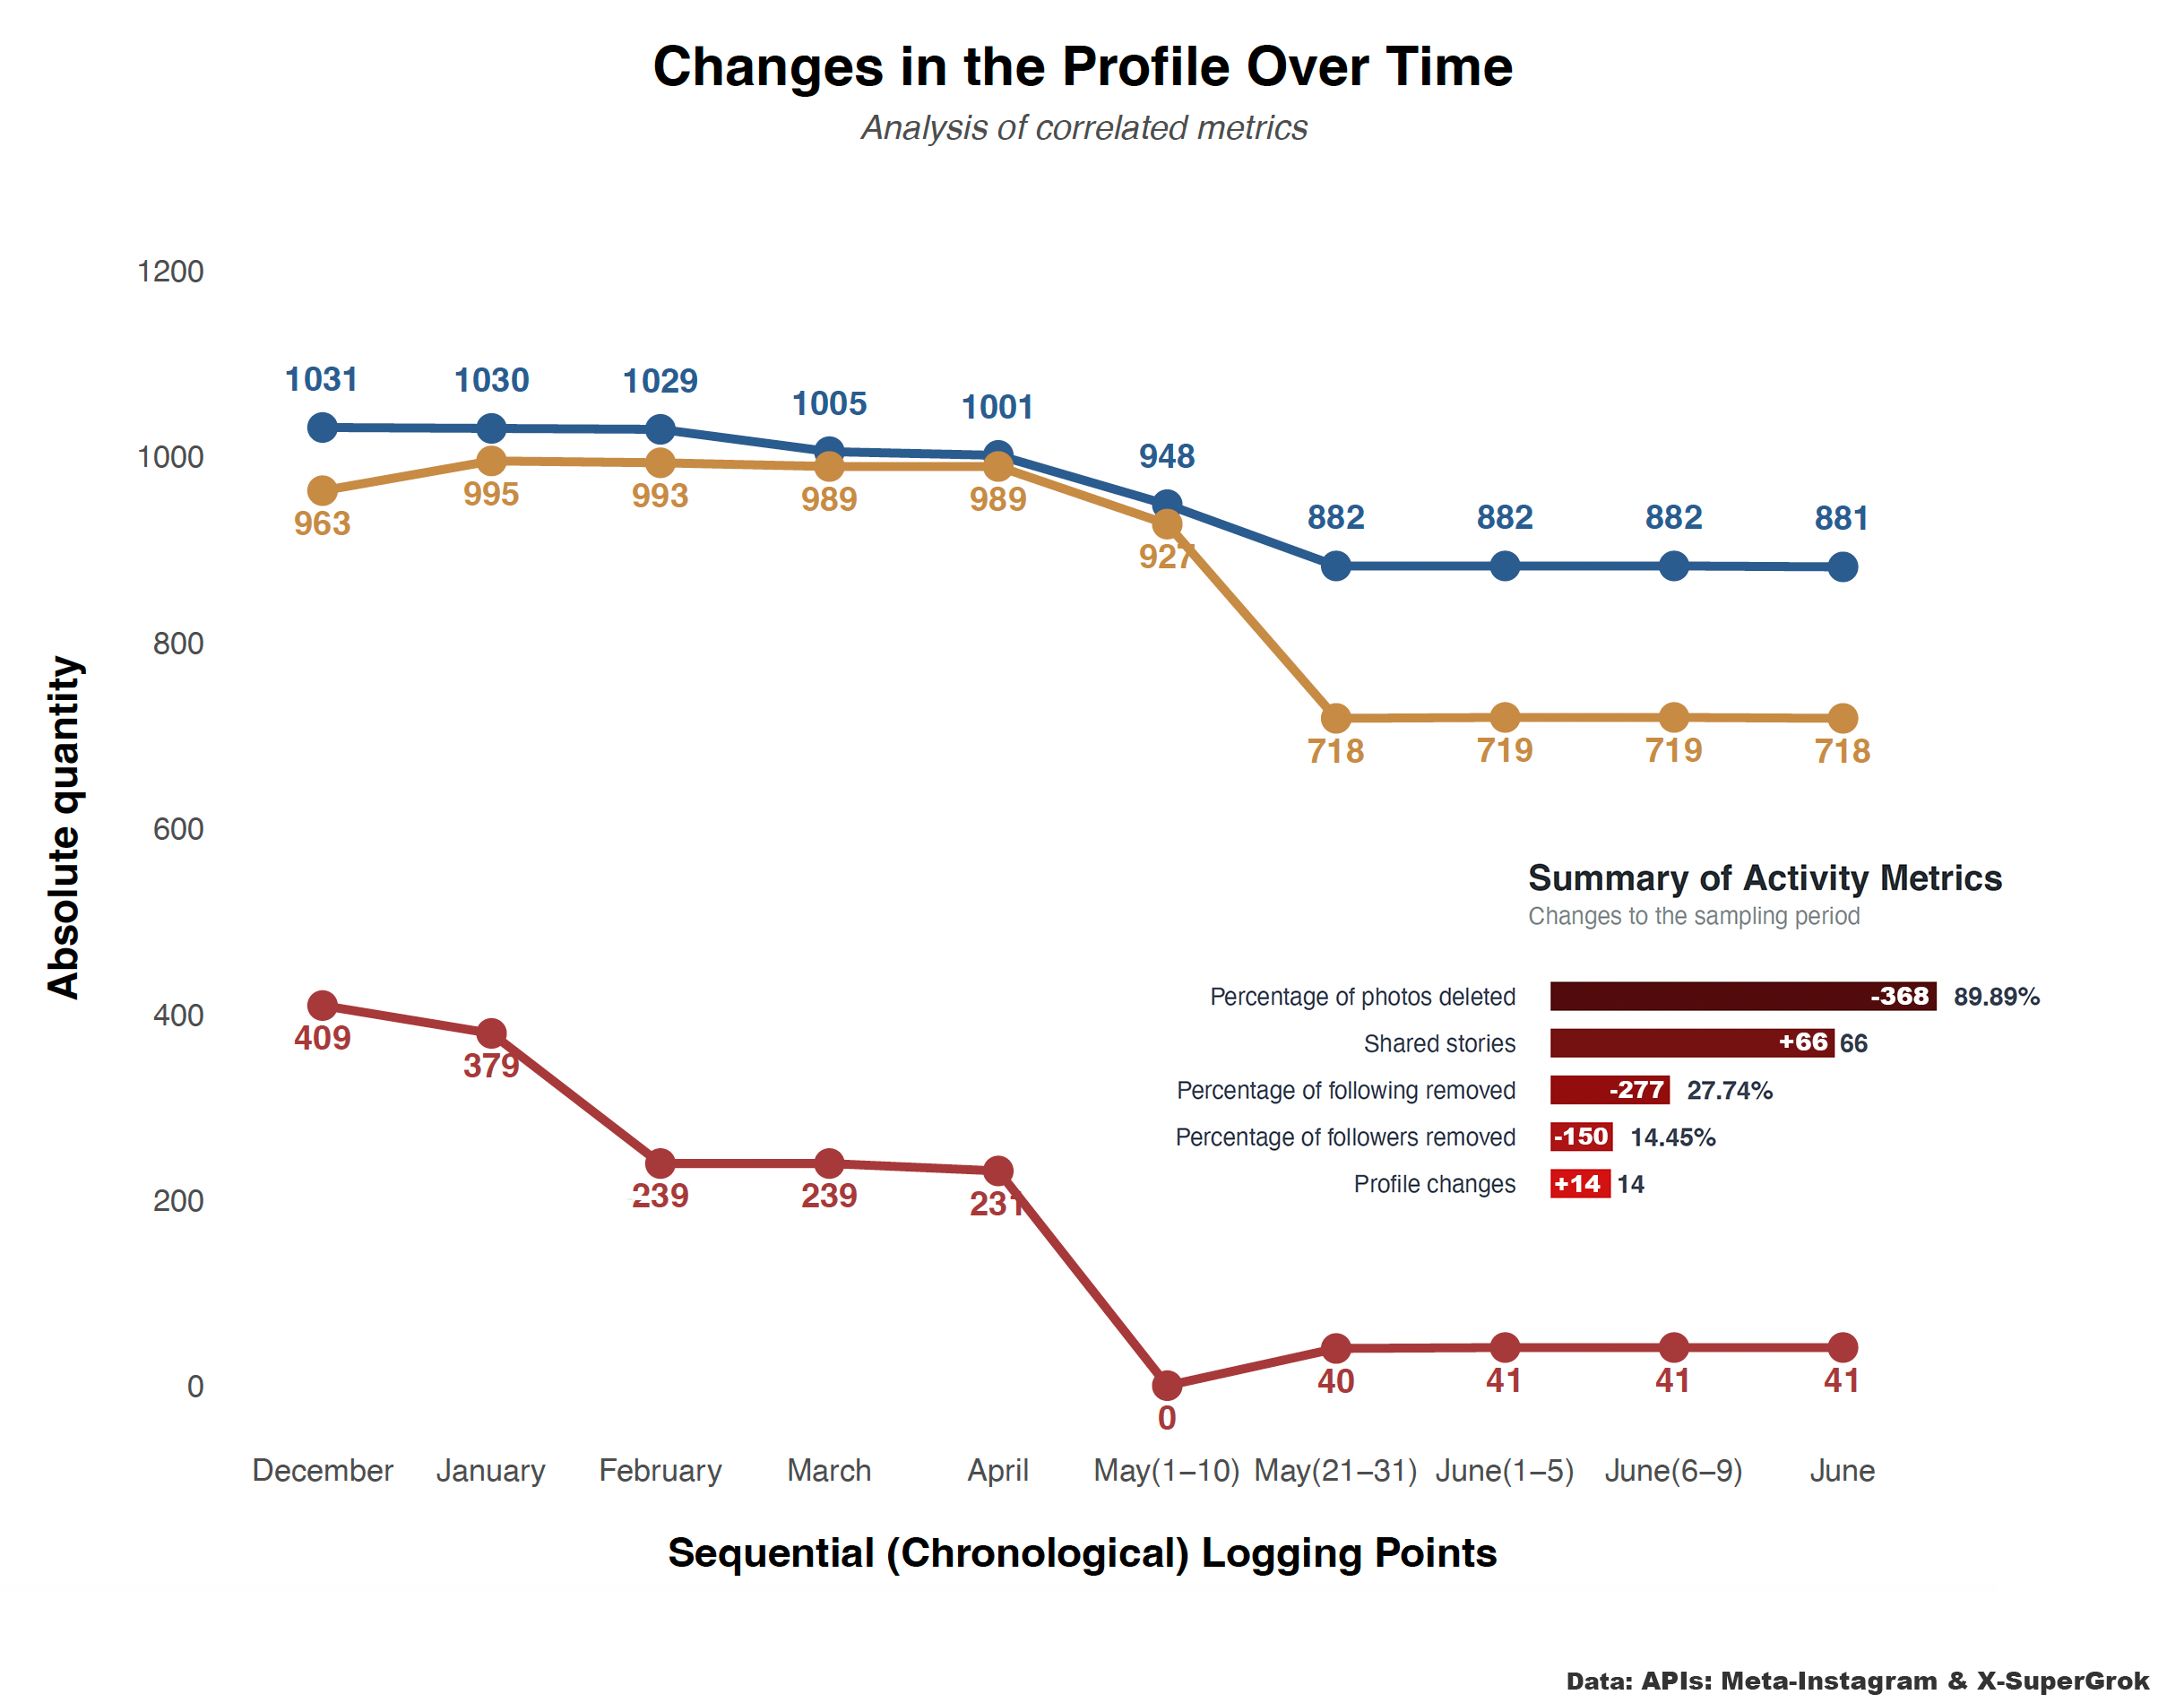
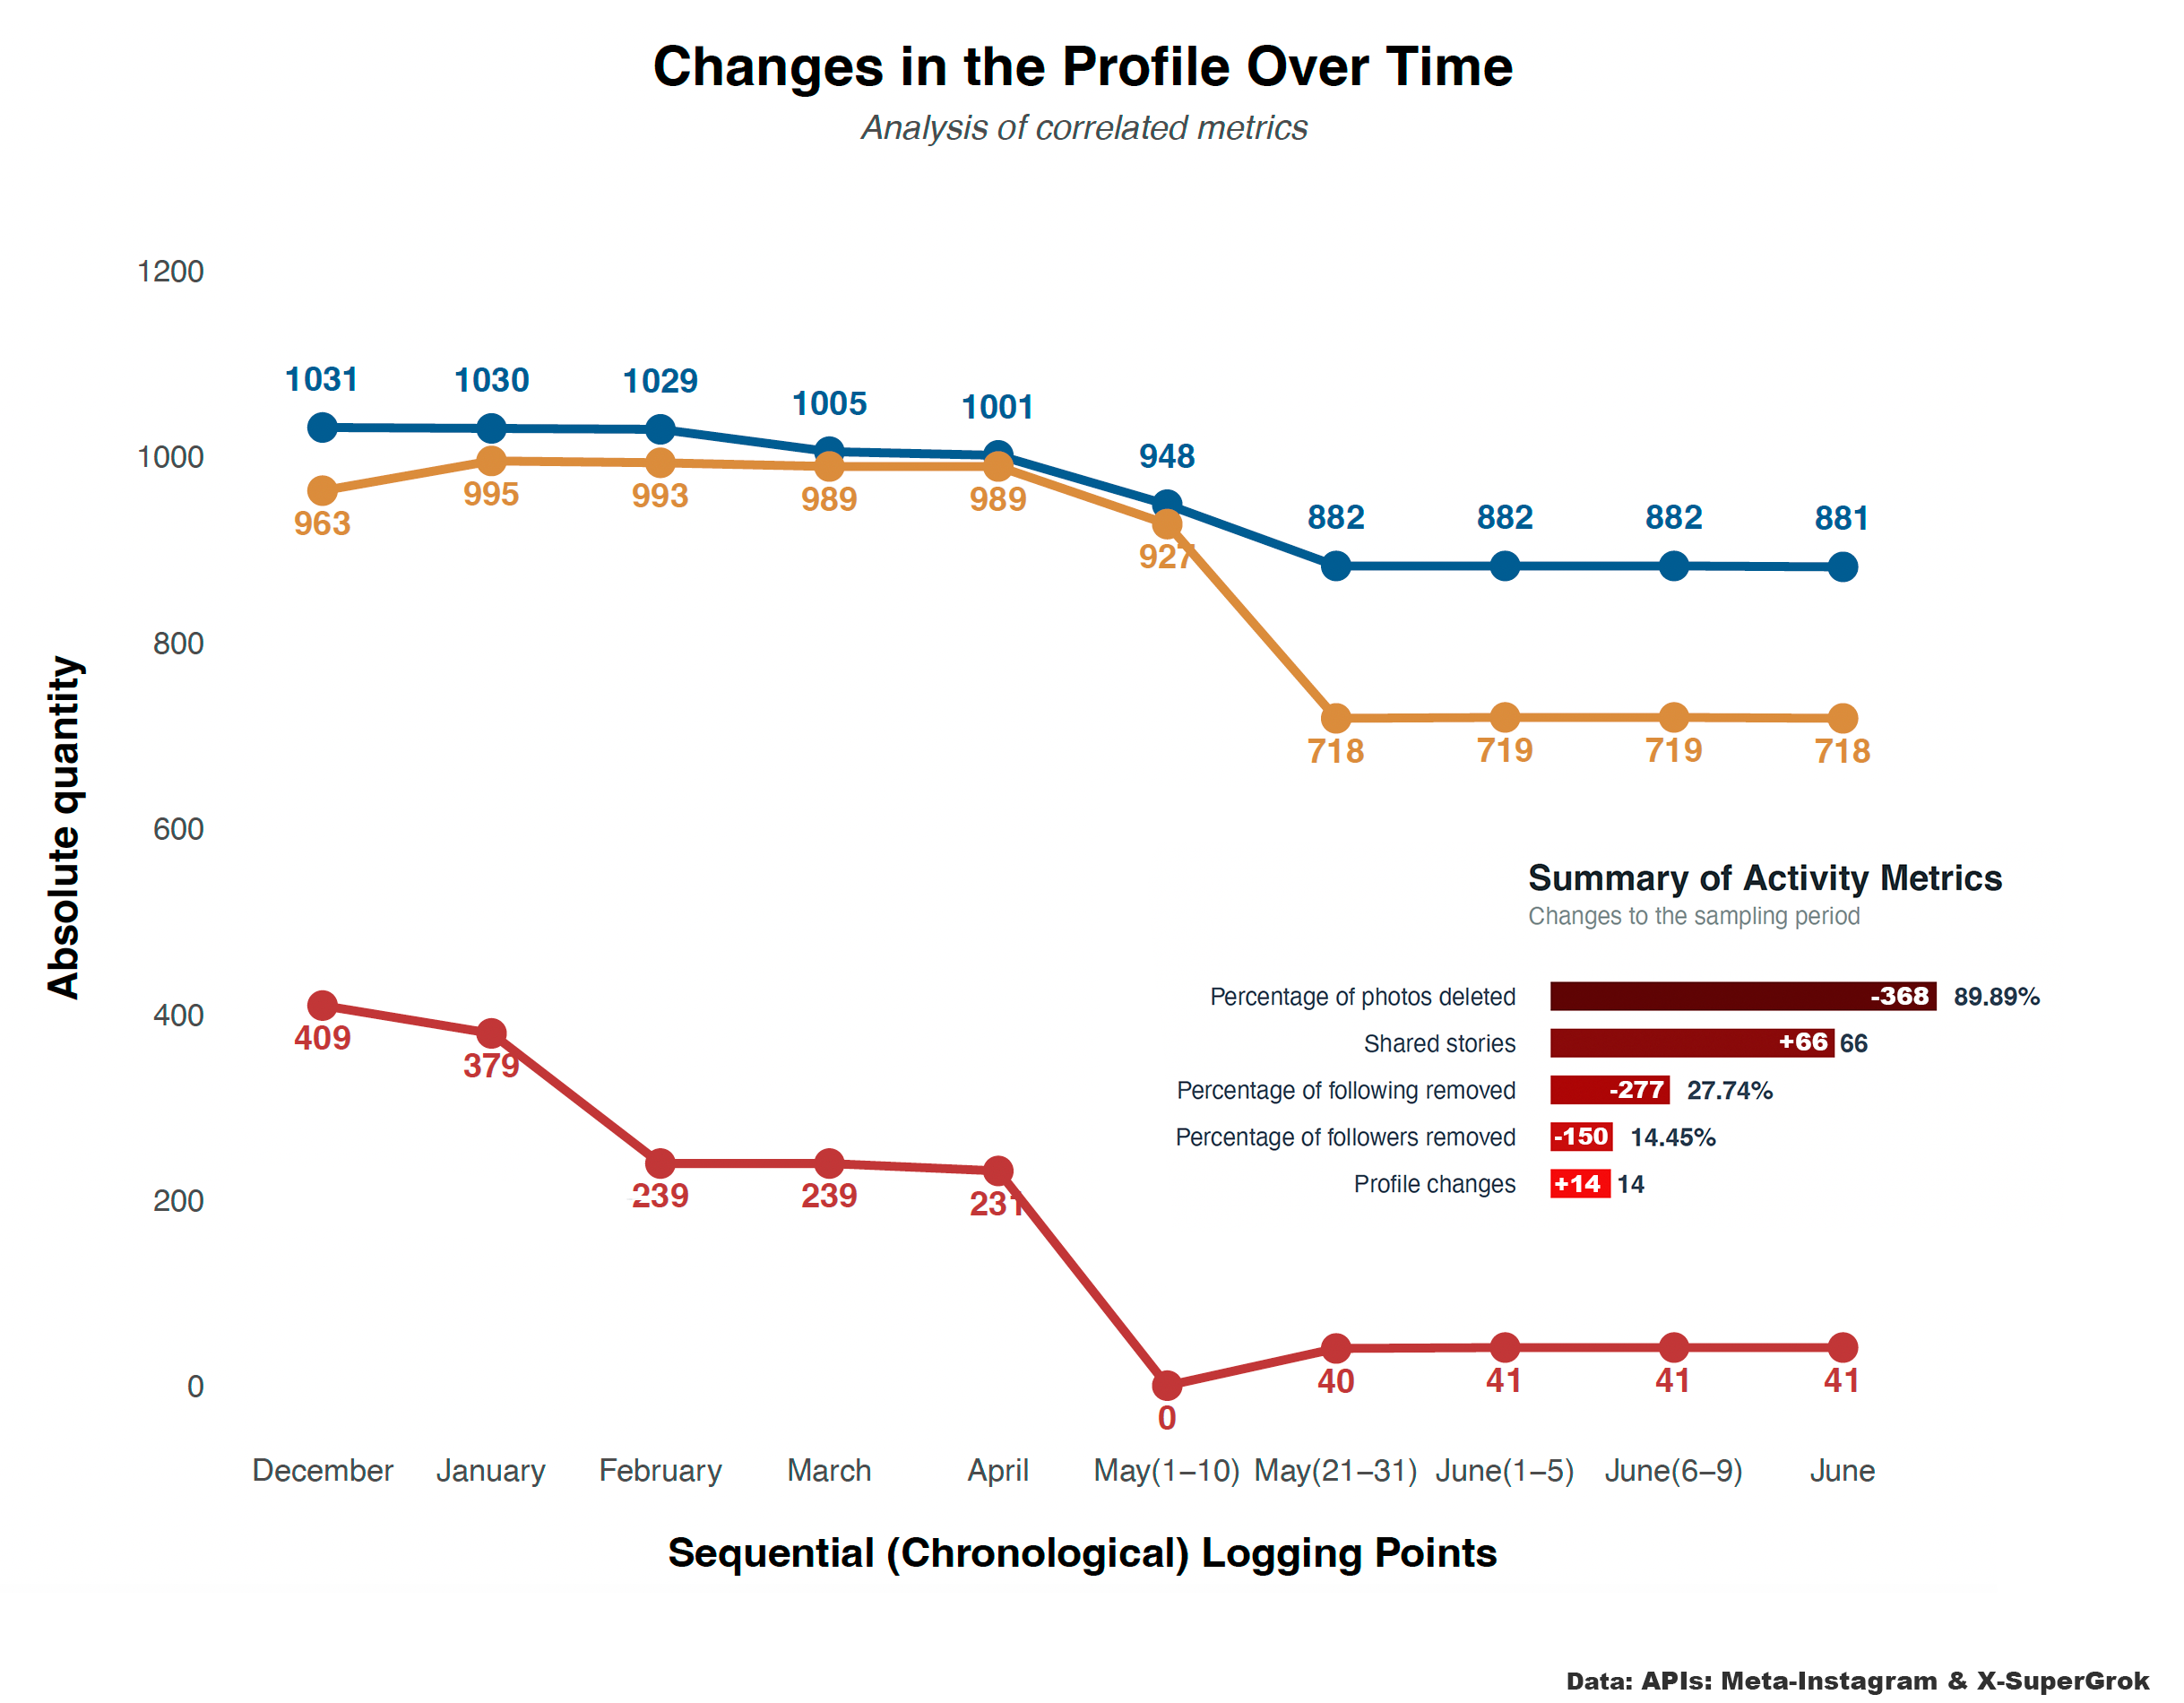
sat28
sat28

diff --git a/docs/posts/Socialmedia/index.html b/docs/posts/Socialmedia/index.html
@@ -226,6 +226,23 @@ Important
 </div>
 </div>
 <div class="callout-body-container callout-body">
+<p>ES</p>
+</div>
+</div>
+<p>En esta oportunidad se trabajan con datos extraídos a través del API de Meta y X. Lo único que se necesita son las credenciales y claves K que genera cada plataforma. antes de poder acceder a cualquiera de los claves, que es necesario solicitar una autorización a la sitio web de desarrolladores de Meta y X.</p>
+<p>En este caso, trabajamos con datos extraídos a través de las API de Meta y X. Solo es necesario obtener las credenciales y las claves Key generadas por cada plataforma. Antes de poder acceder a cualquiera de las claves, debes solicitar autorización en los sitios web para desarrolladores de Meta y X, por lo general son aprobados en poco tiempo.</p>
+<p>La extracción de datos por estas vías están sujetas a las regulaciones de cada plataforma. Esta vez el compendio está desarrollado con Python (extracción) y R (manipulación de datos y gráficos) Este panel de control se ha creado en quarto. Se extrae la data y se actualiza el gráfico dinámicamente. La API se ejecuta automáticamente tres veces por mes, puede configurarse al momento de crear las claves API, hay diferentes límites de tiempo disponibles.</p>
+<p>Ejemplo API: https://github.com/freddyvillabona/extraer-tuits-tweepy/tree/master</p>
+<div class="callout callout-style-default callout-important callout-titled">
+<div class="callout-header d-flex align-content-center">
+<div class="callout-icon-container">
+<i class="callout-icon"></i>
+</div>
+<div class="callout-title-container flex-fill">
+Important
+</div>
+</div>
+<div class="callout-body-container callout-body">
 <p>EN</p>
 </div>
 </div>

diff --git a/docs/programandoenr.html b/docs/programandoenr.html
@@ -301,7 +301,7 @@ FV
 </a>
 </div>
 </div>
-<div class="quarto-post image-right" data-index="2" data-categories="Y29kZSUyQ2FuYWx5c2lz" data-listing-date-sort="1767157200000" data-listing-file-modified-sort="1781570444230" data-listing-date-modified-sort="NaN" data-listing-reading-time-sort="1" data-listing-word-count-sort="73">
+<div class="quarto-post image-right" data-index="2" data-categories="Y29kZSUyQ2FuYWx5c2lz" data-listing-date-sort="1767157200000" data-listing-file-modified-sort="1781997435558" data-listing-date-modified-sort="NaN" data-listing-reading-time-sort="2" data-listing-word-count-sort="265">
 <div class="thumbnail"><a href="./posts/Socialmedia/index.html" class="no-external">
 
 <img loading="lazy" src="./posts/Socialmedia/rs1.png" class="thumbnail-image">
@@ -319,7 +319,7 @@ FV
 
 </div>
 <div class="delink listing-description"><a href="./posts/Socialmedia/index.html" class="no-external">
-EN
+ES
 </a></div>
 </div>
 <div class="metadata">